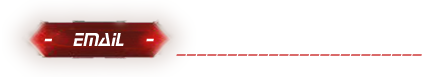
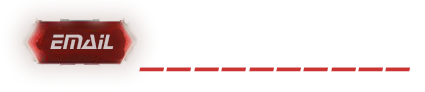
ok

Changed region(s): [[0.0612, 0.2078, 1.0, 0.7792]]

diff --git a/GdrDestiny/public/js/HomeInterna/box.js b/GdrDestiny/public/js/HomeInterna/box.js
@@ -1,0 +1,34 @@
+class Box
+{
+    boxCreated;
+    titleBox;
+    contentBox;
+
+    constructor(text,boxViewed,title){
+       
+        this.text=text;
+        this.boxViewed=boxViewed;
+        this.title=title;
+
+        this.createBox()
+    }
+    createBox(){
+        this.boxCreated=document.createElement('div')
+        this.boxCreated.className='box'
+        document.body.append(this.boxCreated)
+        console.log('ok')
+
+        this.titleBox=document.createElement('div')
+        this.titleBox.append(document.createTextNode(this.title))
+        this.titleBox.className='titleBox'
+        this.boxCreated.append(this.titleBox)
+
+        this.contentBox=document.createElement('div')
+        this.contentBox.append(document.createTextNode(this.text))
+        this.contentBox.className='contentBox'
+        this.boxCreated.append(this.contentBox)
+
+
+    }
+    
+}

diff --git a/GdrDestiny/public/css/SitoFacciaInterna/home.scss b/GdrDestiny/public/css/SitoFacciaInterna/home.scss
@@ -25,6 +25,7 @@ html , body{
             
             img{
                 height: 6vh;
+                
 
             }
           
@@ -65,6 +66,12 @@ html , body{
     top: 6vh;
     
 }
+#meteo{
+    height: 20vh;
+    position: absolute;
+    top:3.5vh;
+    left:4.5vh;
+}
 
 
 @media only screen and (max-width: 980px){
@@ -84,9 +91,9 @@ html , body{
             }
         }
         }
-        #messaggi{
-            height: 12vh;
-        }
+    
+        
+        
               
            
 

diff --git a/GdrDestiny/public/css/SitoFacciaInterna/home.css b/GdrDestiny/public/css/SitoFacciaInterna/home.css
@@ -72,15 +72,19 @@ html, body {
   top: 6vh;
 }
 
+#meteo {
+  height: 20vh;
+  position: absolute;
+  top: 3.5vh;
+  left: 4.5vh;
+}
+
 @media only screen and (max-width: 980px) {
   .contenitoreMappa {
     height: 50vh;
   }
   .menuTop .buttonLeft li img, .menuTop .buttonRight li img, .menuTop ul li img {
     height: 4vh;
-  }
-  #messaggi {
-    height: 12vh;
   }
 }
 /*# sourceMappingURL=home.css.map */

diff --git a/GdrDestiny/public/js/HomeInterna/home.js b/GdrDestiny/public/js/HomeInterna/home.js
@@ -31,8 +31,10 @@ function changeGhostHome(){
 
 
     }
+
     let menuTop=document.querySelector('.listMenu');
     menuTop.addEventListener('mouseover',changeGhost)
     menuTop.addEventListener('mouseout',returnGhost)
 
 }
+

diff --git a/GdrDestiny/public/css/SitoFacciaEsterna/loginWelcome2.scss b/GdrDestiny/public/css/SitoFacciaEsterna/loginWelcome2.scss
@@ -144,7 +144,12 @@ section{
 }
 .password{
     top: 32%;
-    left: 31%;
+    left: 33%;
+}
+
+.repeatPassword{
+    top: 60%;
+    left: 33%;
 }
 
 @media only screen and (max-width: 800px){

diff --git a/GdrDestiny/public/css/SitoFacciaEsterna/loginWelcome2.css b/GdrDestiny/public/css/SitoFacciaEsterna/loginWelcome2.css
@@ -156,7 +156,12 @@ section {
 
 .password {
   top: 32%;
-  left: 31%;
+  left: 33%;
+}
+
+.repeatPassword {
+  top: 60%;
+  left: 33%;
 }
 
 @media only screen and (max-width: 800px) {

diff --git a/GdrDestiny/public/css/box/box.css b/GdrDestiny/public/css/box/box.css
@@ -1,0 +1,4 @@
+.box {
+  background-color: black;
+}
+/*# sourceMappingURL=box.css.map */

diff --git a/GdrDestiny/public/css/box/box.scss b/GdrDestiny/public/css/box/box.scss
@@ -1,0 +1,3 @@
+.box{
+    background-color: black;
+}

diff --git a/GdrDestiny/resources/views/auth/passwords/reset.blade.php b/GdrDestiny/resources/views/auth/passwords/reset.blade.php
@@ -1,65 +1,51 @@
-@extends('layouts.app')
+<html lang="it">
 
-@section('content')
-<div class="container">
-    <div class="row justify-content-center">
-        <div class="col-md-8">
-            <div class="card">
-                <div class="card-header">{{ __('Reset Password') }}</div>
+<head>
+    <meta charset="UTF-8">
+    <meta name="viewport" content="width=device-width, initial-scale=1.0">
+    <link rel="stylesheet" href="/css/SitoFacciaEsterna/loginWelcome2.css">
+    <link rel="stylesheet" href="/css/modal/modal.css">
 
-                <div class="card-body">
-                    <form method="POST" action="{{ route('password.update') }}">
-                        @csrf
+    <script src="/js/HomeEsterna/modal.js"></script>
 
-                        <input type="hidden" name="token" value="{{ $token }}">
 
-                        <div class="form-group row">
-                            <label for="email" class="col-md-4 col-form-label text-md-right">{{ __('E-Mail Address') }}</label>
+<body>
+    <section>
 
-                            <div class="col-md-6">
-                                <input id="email" type="email" class="form-control @error('email') is-invalid @enderror" name="email" value="{{ $email ?? old('email') }}" required autocomplete="email" autofocus>
-
-                                @error('email')
-                                    <span class="invalid-feedback" role="alert">
-                                        <strong>{{ $message }}</strong>
-                                    </span>
-                                @enderror
-                            </div>
-                        </div>
-
-                        <div class="form-group row">
-                            <label for="password" class="col-md-4 col-form-label text-md-right">{{ __('Password') }}</label>
-
-                            <div class="col-md-6">
-                                <input id="password" type="password" class="form-control @error('password') is-invalid @enderror" name="password" required autocomplete="new-password">
-
-                                @error('password')
-                                    <span class="invalid-feedback" role="alert">
-                                        <strong>{{ $message }}</strong>
-                                    </span>
-                                @enderror
-                            </div>
-                        </div>
-
-                        <div class="form-group row">
-                            <label for="password-confirm" class="col-md-4 col-form-label text-md-right">{{ __('Confirm Password') }}</label>
-
-                            <div class="col-md-6">
-                                <input id="password-confirm" type="password" class="form-control" name="password_confirmation" required autocomplete="new-password">
-                            </div>
-                        </div>
-
-                        <div class="form-group row mb-0">
-                            <div class="col-md-6 offset-md-4">
-                                <button type="submit" class="btn btn-primary">
-                                    {{ __('Reset Password') }}
-                                </button>
-                            </div>
-                        </div>
-                    </form>
+        <form method="POST" action="{{ route('password.email') }}">
+            @csrf
+            <img id='sfondo' src="/img/imgHomeEsterna/sfondo.png" alt="">
+            <div class="ContainerCentrale login">
+                <div class="circonferenzaBlu login">
+                    <img src="/img/imgHomeEsterna/login/loginprovarw.png" id='sferaRossa' alt="">
+                    <div class="loginImages">
+                        <img src="/img/imgHomeEsterna/imgResetPassword/email.png" alt=""><input id="email" type="email"
+                            name="email" value="{{ $email ?? old('email') }}" required autocomplete="email" autofocus
+                            class='LoginInput name'>
+                        <img src="/img/imgHomeEsterna/imgResetPassword/nuovapss.png" alt=""><input id="password"
+                            type="password" name="password" required autocomplete="new-password"
+                            class='LoginInput password'>
+                        <img src="/img/imgHomeEsterna/imgResetPassword/ripetipassword.png" alt=""><input
+                            id="password-confirm" type="password" name="password_confirmation" required
+                            autocomplete="new-password" class='LoginInput repeatPassword'>
+                        <button type='submit'><img src="/img/imgHomeEsterna/login/loginconferma.png" alt=""
+                                class='buttonLogin'></button>
+                    </div>
                 </div>
+
+
             </div>
-        </div>
-    </div>
-</div>
-@endsection
+        </form>
+    </section>
+    <script>
+    @if($errors->any())
+
+    new Finestra("{{ json_encode($errors->all()) }}", null, 'Errore Durante il recupero password')
+    @elseif(session('status'))
+
+    new Finestra("{{ json_encode('Password modificata, ora hai la possibilità di continuare a giocare, buon divertimento.') }}", 'no', 'Modificata Effettuata')
+    @endif
+    </script>
+</body>
+
+</html>

diff --git a/GdrDestiny/app/Notifications/ResetPassword.php b/GdrDestiny/app/Notifications/ResetPassword.php
@@ -1,0 +1,62 @@
+<?php
+
+namespace App\Notifications;
+
+use Illuminate\Bus\Queueable;
+use Illuminate\Contracts\Queue\ShouldQueue;
+use Illuminate\Notifications\Messages\MailMessage;
+use Illuminate\Notifications\Notification;
+
+class ResetPassword extends Notification
+{
+    use Queueable;
+
+    /**
+     * Create a new notification instance.
+     *
+     * @return void
+     */
+    public function __construct($token)
+    {
+        $this->token = $token;
+    }
+
+    /**
+     * Get the notification's delivery channels.
+     *
+     * @param  mixed  $notifiable
+     * @return array
+     */
+    public function via($notifiable)
+    {
+        return ['mail'];
+    }
+
+    /**
+     * Get the mail representation of the notification.
+     *
+     * @param  mixed  $notifiable
+     * @return \Illuminate\Notifications\Messages\MailMessage
+     */
+    public function toMail($notifiable)
+    {
+        return (new MailMessage)
+                    ->subject('Richiesta Cambio Password')
+                    ->line("E' stato richiesto un cambio password, clicca qui per poter scegliere la tua nuova password")
+                    ->action('Reset Password', url('password/reset', $this->token))
+                    ->line('Se non hai richiesto tu questo servizio ignora semplicemente il messaggio');
+    }
+
+    /**
+     * Get the array representation of the notification.
+     *
+     * @param  mixed  $notifiable
+     * @return array
+     */
+    public function toArray($notifiable)
+    {
+        return [
+            
+        ];
+    }
+}

diff --git a/GdrDestiny/resources/views/layouts/appInterno.blade.php b/GdrDestiny/resources/views/layouts/appInterno.blade.php
@@ -6,6 +6,7 @@
     <link rel="stylesheet" href="/css/SitoFacciaInterna/home.css">
     <script src="/js/HomeEsterna/modal.js"></script>
     <script src="/js/HomeInterna/home.js"></script>
+    <script src="/js/HomeInterna/box.js"></script>
 </head>
 <!-- per modificare link dei bottoni modificare anche il file home.js -->
 <body>
@@ -21,7 +22,7 @@
                 <div class="buttonRight">
                     <li><a href="#"><img data-number=4 src="/img/imgHomeInterna/home/schedapg.png" alt=""></a></li>
                     <li><a href="#"><img data-number=5 src="/img/imgHomeInterna/home/rymzody.png" alt=""></a></li>
-                    <li><a href="#"><img data-number=6 src="/img/imgHomeInterna/home/logouttuttodx.png" alt=""></a></li>
+                    <li><a href="{{ route('logout') }}"><img data-number=6 src="/img/imgHomeInterna/home/logouttuttodx.png" alt=""></a></li>
                 </div>
             </ul>
         </div>
@@ -29,6 +30,7 @@
             <div class="mappaDiv">
                 @yield('content')
                 <img src="/img/imgHomeInterna/home/messaggioff.png" id='messaggi' alt="">
+                <img src="/img/imgHomeInterna/home/meteo.png" id='meteo' alt="">
             </div>
 
         </div>
@@ -37,6 +39,10 @@
 </body>
 <script>
 changeGhostHome();
+
+console.log(new Box('meteo','Textfddff','jfkjdhfkjd'))
+
+
 </script>
 
 </html>

diff --git a/GdrDestiny/resources/views/auth/passwords/email.blade.php b/GdrDestiny/resources/views/auth/passwords/email.blade.php
@@ -19,7 +19,8 @@
                 <div class="circonferenzaBlu login">
                     <img src="/img/imgHomeEsterna/login/loginprovarw.png" id='sferaRossa' alt="">
                     <div class="loginImages">
-                       <input type="email" name='email'>
+                        <img src="/img/imgHomeEsterna/imgResetPassword/email.png" alt=""><input type="email" name="email" class="LoginInput name">
+                        <button type='submit'><img src="/img/imgHomeEsterna/login/loginconferma.png" alt="" class='buttonLogin'></button>
                     </div>
                 </div>
 
@@ -31,6 +32,9 @@
 @if($errors->any())
 
 new Finestra("{{ json_encode($errors->all()) }}",null, 'Errore Durante il recupero password')
+@elseif(session('status'))
+
+new Finestra("{{ json_encode('Email Inviata, controlla la tua posta.') }}", 'no', 'Richiesta inoltrata con successo')
 @endif
 </script>
 </body>
